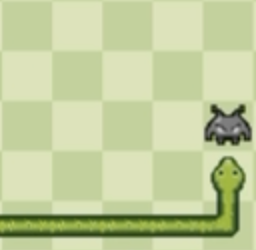
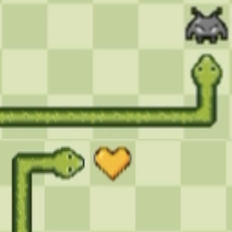
feat: add golden heart instructions and sound effect

diff --git a/index.html b/index.html
@@ -30,7 +30,7 @@
             </div>
             <div class ="instruction">
                 <img src="imgs/instructions/collideEnemy.png" alt="snake colliding with an enemy">
-                <p>If the snake collides with an <span>enemy</span>, it will lose a part of its body and a life.</p>
+                <p>If the snake collides with an <span>enemy</span>, it will lose a part of its body and a life. You can restore a live by collecting <span class="golden">golden hearts</span> 💛.</p>
             </div>
             <div class ="instruction">
                 <img src="imgs/instructions/loseWays.png" alt="collage with the three ways of losing the game">

diff --git a/js/game.js b/js/game.js
@@ -214,6 +214,7 @@ class Game {
         if (this.goldenHeartCreated) {
             if (this.snake.collisions(this.goldenHeart.position)) {
                 this.snake.lives = this.goldenHeart.heal(this.snake.lives)
+                healAudio.play()
                 delete this.goldenHeart
                 this.goldenHeartCreated = false
                 this.goldenHeartIndex = 0

diff --git a/js/constants.js b/js/constants.js
@@ -129,3 +129,6 @@ restartSound.volume = 0.2
 
 const difficultySound = new Audio ("sounds/difficultyButtons.mp3")
 difficultySound.volume = 0.4
+
+const healAudio = new Audio ("sounds/heal.mp3")
+healAudio.volume = 0.4

diff --git a/style.css b/style.css
@@ -91,6 +91,10 @@ body {
     color: green;
 }
 
+#howToPlay span.golden {
+    color: #b8960b;
+}
+
 .instruction {
     display: flex;
     flex-direction: row;
